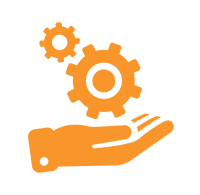
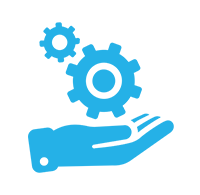
minor changes

Changed region(s): [[0.12, 0.0923, 0.87, 0.8923]]

diff --git a/index.html b/index.html
@@ -80,8 +80,8 @@
           <div class="container">
             <div class="col-md-offset-2 col-md-8">
               <div class="slider-captions text-center "><!-- slider-captions -->
-                <h1 class="slider-title">Full Service Electronics Experience</h1>
-                <p class="slider-text mb40">World-class repair centre, return & buyback management solutions</p>
+                <h1 class="slider-title">Helping Brands Successfully Manage Their repairs & return management </h1>
+                <p class="slider-text mb30">World-class Repair Centre, Return & Buyback Management Solutions</p>
                 <a href="#whatwedo" class="btn btn-default hidden-xs" >learn more</a>
 
               </div>
@@ -103,9 +103,9 @@
     </div>
     <div class="row">
       <div class="col-md-4 col-sm-4">
-        <div class="feature-block text-center mb20"><!--feature-box-->
-          <div class="feature-icon-1 mb20"><!-- feature-icon-->
-            <img src="./assets/images/service1.png" height="120px"></div>
+        <div class="feature-block text-center mb10"><!--feature-box-->
+          <div class="feature-icon-1 mb10"><!-- feature-icon-->
+            <img src="./assets/images/service1.png" height="86px"></div>
           <!-- /.feature-icon-->
           <h2>Returns Management and Reversed Logistics</h2>
           <p>Our Fulfilment Advisor can advise you on how to reduce the amount of returns your business has to deal with.</p>
@@ -114,9 +114,9 @@
         <!--/.feature-box-->
       </div>
       <div class="col-md-4 col-sm-4">
-        <div class="feature-block text-center mb20"><!--feature-box-->
-          <div class="feature-icon-1 mb20"><!-- feature-icon-->
-            <img src="./assets/images/service2.png" height="120px"></div>
+        <div class="feature-block text-center mb10"><!--feature-box-->
+          <div class="feature-icon-1 mb10"><!-- feature-icon-->
+            <img src="./assets/images/service2.png" height="86px"></div>
           <!-- /.feature-icon-->
           <h2>Repair Center Management Solutions</h2>
           <p>We operate an optimized work place that deals with all repair levels for all different electronics categories.</p>
@@ -125,9 +125,9 @@
         <!--/.feature-box-->
       </div>
       <div class="col-md-4 col-sm-4">
-        <div class="feature-block text-center mb20"><!--feature-box-->
-          <div class="feature-icon-1 mb20"><!-- feature-icon-->
-            <img src="./assets/images/service3.png" height="120px"></div>
+        <div class="feature-block text-center mb10"><!--feature-box-->
+          <div class="feature-icon-1 mb10"><!-- feature-icon-->
+            <img src="./assets/images/service3.png" height="86px"></div>
           <!-- /.feature-icon-->
           <h2>Buy-Back and Trade-In Management</h2>
           <p>We offer cash and/or vouchers at a challenging rates which leave our customers happy and empowered.</p>
@@ -149,29 +149,27 @@
   <div class="container">
     <div class="row">
       <div class="col-md-6">
-        <h1 class="mb20">Why HelpbitCare?</h1>
-        <p class="mb40">At HelpbitCare, we help our B2B clients to provide their direct customers with the best of class after sales services thus applying the WoW effect which is eventually aiming to the highest standards of the best customer experience in the region.
-        <p>This landmark initiative and our existence in GCC and Middle East, ensures that clients are served with a seamless process flow experience with the added benefits of Repair, Return Management, Extended warranty and damage protection programs, Liquidation Management and Inventory Management.
-        <p>We believe in employee engagement, therefore with the day to day operational flow, we embrace an augmentation methodologies for our staff who help us reach out to client’s satisfactory highest level.</p>
-      </div>
+        <h1 class="mb30">Why HelpbitCare?</h1>
+        <p class="lead mb20">At HelpbitCare, we help our B2B clients to provide their direct customers with the best of class after sales services thus applying the WoW effect which is eventually aiming to the highest standards of the best customer experience in the region.
+          </div>
       <div class="col-md-6">
-        <div class="feature-left feature-block pinside20 mb10 box-shadow"><!-- feature-block -->
-          <div class="feature-icon"> <i class="icon icon-size-xxx icon-color-default fontello-avatar-1"></i> </div>
+        <div class="feature-left feature-block pinside10 mb10 box-shadow"><!-- feature-block -->
+          <div class="feature-icon "> <i class="icon icon-size-xxx icon-color-default fontello-avatar-1 "></i> </div>
           <div class="feature-content">
             <h3>Customer Centered</h3>
             <p>Our #1 goal is to keep you satisfied. We will do everything to meet and exceed your expectations.</p>
           </div>
         </div>
         <!-- /.feature-block -->
-        <div class="feature-left feature-block pinside20 mb10 box-shadow"><!-- feature-block -->
+        <div class="feature-left feature-block pinside10 mb10 box-shadow"><!-- feature-block -->
           <div class="feature-icon"> <i class="icon icon-size-xxx icon-color-default fontello-like"></i> </div>
           <div class="feature-content">
             <h3>Quality Work, Every Time </h3>
-            <p>We repair damaged devices with state-of-the-art equipment and top quality spares, backed by a 3-months warranty.</p>
+            <p>We repair damaged devices with state-of-the-art equipment and top quality spares, backed by a 3-months warranty. We are ISO 9001 Certified.</p>
           </div>
         </div>
         <!-- /.feature-block -->
-        <div class="feature-left feature-block pinside20 mb10 box-shadow"><!-- feature-block -->
+        <div class="feature-left feature-block pinside10 mb10 box-shadow"><!-- feature-block -->
           <div class="feature-icon"> <i class="icon icon-size-xxx icon-color-default fontello-calculator"></i> </div>
           <div class="feature-content">
             <h3>Competitive Pricing</h3>
@@ -196,16 +194,16 @@
     </div>
     <div class="row">
       <div class="col-md-4 col-sm-6">
-        <div class="counter-block pinside50  text-center box-shadow mb20"><!-- counter-block -->
-          <div class="counter-icon mb20"> <i class="icon icon-size-xx fontello-big-map-locator"></i> </div>
+        <div class="counter-block pinside10  text-center box-shadow mb10"><!-- counter-block -->
+          <div class="counter-icon mb10"> <i class="icon icon-size-xx fontello-big-map-locator"></i> </div>
           <h1 class="counter-title"> UAE, KSA, Egypt</h1>
           <p class="small-text">Locations</p>
         </div>
         <!-- /.counter-block -->
       </div>
       <div class="col-md-4 col-sm-6">
-        <div class="counter-block pinside50  text-center box-shadow mb20"><!-- counter-block -->
-          <div class="counter-icon mb20"> <i class="icon icon-size-xx fontello-list"></i> </div>
+        <div class="counter-block pinside10  text-center box-shadow mb10"><!-- counter-block -->
+          <div class="counter-icon mb10"> <i class="icon icon-size-xx fontello-list"></i> </div>
           <h1 class="counter-title">41 000 units</h1>
           <p class="small-text">Annual Repair Capacity</p>
         </div>
@@ -213,8 +211,8 @@
       </div>
       <div class="col-md-4 col-sm-6">
 
-        <div class="counter-block pinside50  text-center box-shadow mb20"><!-- counter-block -->
-          <div class="counter-icon mb20"> <i class="icon icon-size-xx fontello-two-users"></i> </div>
+        <div class="counter-block pinside10  text-center box-shadow mb10"><!-- counter-block -->
+          <div class="counter-icon mb10"> <i class="icon icon-size-xx fontello-two-users"></i> </div>
           <h1 class="counter-title">85  employees</h1>
           <p class="small-text">Workforce</p>
         </div>
@@ -226,9 +224,9 @@
 </div>
 <!-- /.section-space80 -->
 
+<!--
 
-
-<div class="section-space80 bg-white"><!-- section-space80 Brand logo -->
+<div class="section-space80 bg-white">
   <div class="container">
     <div class="row">
       <div class="col-md-offset-2 col-md-8">
@@ -241,7 +239,7 @@
       <div class="testimonial-1">
         <div class="col-md-12">
           <div class="testimonial-block bg-light pinside40 mb30 box-shadow"> <i class="icon icon-size-xxx icon-primary icon-two-speech-bubbles"></i>
-            <div class="testimonial-content mb30">
+            <div class="testimonial-content mb20">
               <p>“Awesome service from Helpbit, Tried the phone repair service, it was punctual, efficient and high quality work. Well done ” </p>
             </div>
             <div class="testimonial-name">Kinda</div>
@@ -249,7 +247,7 @@
         </div>
         <div class="col-md-12">
           <div class="testimonial-block bg-light pinside40 mb30 box-shadow"> <i class="icon icon-size-xxx icon-primary icon-two-speech-bubbles"></i>
-            <div class="testimonial-content mb30">
+            <div class="testimonial-content mb20">
               <p>“A new on demand service is born Helpbit came on time fixed broken phone screen in less ten minutes!”</p>
             </div>
             <div class="testimonial-name">Omar Soudodi</div>
@@ -257,7 +255,7 @@
         </div>
         <div class="col-md-12">
           <div class="testimonial-block bg-light pinside40 mb30 box-shadow"> <i class="icon icon-size-xxx icon-primary icon-two-speech-bubbles"></i>
-            <div class="testimonial-content mb30">
+            <div class="testimonial-content mb20">
               <p>“Thanks for a great service; My iPhone was repaired to a high standard and a great price.”</p>
             </div>
             <div class="testimonial-name">Qamar Sayed</div>
@@ -267,31 +265,32 @@
     </div>
   </div>
 </div>
-
-<div class="section-space80 bg-light"><!-- section-space80 Brand logo -->
+-->
+<div class="section-space80 bg-white"><!-- section-space80 Brand logo -->
   <div class="container">
     <div class="row">
       <div class="col-md-offset-2 col-md-8">
         <div class="text-center mb60 section-title">
-          <h1>Meet our trusted partners</h1>
+          <h1>Meet our clients</h1>
           <p>Our clients have trusted our team, and technologies. Let them speak for themselves.</p>
         </div>
       </div>
     </div>
     <div class="">
       <div class="col-md-3  col-sm-6 bg-white brand-logo text-center"><img src="./assets/images/souq.png" alt="" class="" height="160px"></div>
-      <div class="col-md-3  col-sm-6 bg-white brand-logo text-center"><img src="./assets/images/wadi.png" alt="" class="" height="160px"></div>
-      <div class="col-md-3  col-sm-6 bg-white brand-logo text-center"><img src="./assets/images/innjoo.png" alt="" class="" height="160px"></div>
       <div class="col-md-3  col-sm-6 bg-white brand-logo text-center"><img src="./assets/images/oneplus.png" alt="" class="" height="160px"></div>
+      <div class="col-md-3  col-sm-6 bg-white brand-logo text-center"><img src="./assets/images/ilife.png" alt="" class="" height="160px"></div>
+      <div class="col-md-3  col-sm-6 bg-white brand-logo text-center"><img src="./assets/images/allianz.png" alt="" class="" height="160px"></div>
+
     </div>
   </div>
 </div>
 <!-- /.section-space80 brand-logo-->
 
 <!-- RD Google Map-->
-<div class="bg-light"><!-- section-space80 -->
+<div class="bg-white"><!-- section-space80 -->
   <div class="text-center mb60 section-title ">
-    <h1 class="mb20">We are in the heart of Dubai</h1>
+    <h1 class="mb10">We are in the heart of Dubai</h1>
   </div>
   <div class="map" id="googleMap"></div>
 </div>
@@ -301,14 +300,14 @@
   <div class="container">
     <div class="row">
       <div class="col-md-4 col-sm-6">
-        <div class="footer-widget mb20"><!-- footer-widget -->
-          <h3 class="footer-title mb30">About HelpbitCare </h3>
+        <div class="footer-widget mb0"><!-- footer-widget -->
+          <h3 class="footer-title mb10">About HelpbitCare </h3>
           <p>HelpbitCare is an innovative leader in electronics repairs, services, and inventory liquidation management. We bring together extensive experience from a variety of backgrounds to bring a full service approach to the consumer electronics experience. From retail and trade-in programs to repairs and sales, we can offer a customized experience on any level.</p>
         </div>
         <!-- /.footer-widget -->
       </div>
       <div class="col-md-2 col-sm-3">
-        <div class="footer-widget mb20"><!-- footer-widget -->
+        <div class="footer-widget mb10"><!-- footer-widget -->
           <h3 class="footer-title mb30">Contact Us</h3>
           <ul class="listnone">
             <li>
@@ -332,7 +331,7 @@
         <!-- /.footer-widget -->
       </div>
       <div class="col-md-2 col-sm-3">
-        <div class="footer-widget mb20"><!-- footer-widget -->
+        <div class="footer-widget mb10"><!-- footer-widget -->
           <h3 class="footer-title mb30">Services</h3>
           <ul class="listnone bullet bullet-arrow-right">
             <li><a href="https://www.helpbit.com/catalog/mobile-repair">Mobile Repair</a></li>
@@ -345,7 +344,7 @@
         <!-- /.footer-widget -->
       </div>
       <div class="col-md-4 col-sm-12">
-        <div class="footer-widget mb20"><!-- footer-widget -->
+        <div class="footer-widget mb10"><!-- footer-widget -->
           <div class="newsletter-widget">
             <h3 class="footer-title mb30">Download App</h3>
             <p>The Easiest & Fastest way to have your device repaired today.</p>

diff --git a/assets/css/style.css b/assets/css/style.css
@@ -4,16 +4,16 @@
 General css class
 -----------------------------------*/
 body{font-size: 15px; -webkit-font-smoothing: antialiased; font-family: 'Ubuntu', sans-serif;
- line-height: 1.4; color:#7d7d7d; background-color: #f6f6f6;}
+ line-height: 1.1; color:#7d7d7d; background-color: #f6f6f6;}
 h1,h2,h3,h4,h5,h6{margin:0px 0px 20px 0px; color: #353938; font-family: 'Ubuntu', sans-serif;}
-h1 {font-size: 32px; line-height: 42px;}
+h1 {font-size: 28px; line-height: 42px;}
 h2 {font-size: 24px;}
 h3 {font-size: 22px;line-height: 32px;}
 h4 {font-size: 18px;}
 p {margin: 0 0 20px;line-height: 1.6;}
 ul, ol {}
 ul li, ol li {}
-a {color: #f9962b; text-decoration: none; -webkit-transition: all 0.3s; -moz-transition: all 0.3s;
+a {color: #25aae1; text-decoration: none; -webkit-transition: all 0.3s; -moz-transition: all 0.3s;
  transition: all 0.3s;}
 a:focus, a:hover {text-decoration: none; color: #25aae1;}
 strong{ font-weight: 600; color:#353938;}
@@ -118,7 +118,7 @@ Padding space
 .section-space20{padding-top: 20px;padding-bottom: 20px;}
 .section-space40{padding-top: 40px;padding-bottom: 40px;}
 .section-space60{padding-top: 60px;padding-bottom: 60px;}
-.section-space80{padding-top: 80px;padding-bottom: 80px;}
+.section-space80{padding-top: 40px;padding-bottom: 60px;}
 .section-space100{padding-top: 100px;padding-bottom: 100px;}
 .section-space120{padding-top: 100px;padding-bottom: 120px;}
 .section-space-top80{padding-top: 80px;}
@@ -440,8 +440,8 @@ padding: 10px 15px; margin-bottom: 5px; background-color: #21c58d; border: 0px s
 	}
 	
 .slider-captions {position: absolute;  top: 100px; padding: 30px;}
-.slider-title{color: #fff;font-size: 42px; font-weight: 500; text-transform: capitalize; line-height: 42px;}
-.slider-text{color: #fff; font-size: 16px;} 
+.slider-title{color: #fff;font-size: 34px; font-weight: 500; text-transform: capitalize; line-height: 42px;}
+.slider-text{color: #fff; font-size: 18px;}
 .slider .item img{width:100%;}  
 
 
@@ -474,7 +474,7 @@ right: 10px; overflow: hidden; text-indent: 100%; white-space: nowrap; visibilit
 .counter-block{background-color: #fafafa;  }
 .counter-block:hover{background-color: #fff;    transition: all 0.2s ease-in-out 0s;}
 .counter-icon{color: #bfc3c2;}
-.counter-title{font-size: 34px;}
+.counter-title{font-size: 26px;}
 
 /*-----Testimonial-----*/
 
@@ -508,8 +508,10 @@ transition: all 0.2s ease-in-out 0s;
 .brand-logo:hover{   -webkit-box-shadow: 0px 3px 3px 3px rgba(234,234,234,1);
 -moz-box-shadow: 0px 3px 3px 3px rgba(234,234,234,1); box-shadow: 0px 3px 3px 3px rgba(234,234,234,1); transition: all 0.2s ease-in-out 0s;
      position: relative; z-index: 9;}
+/*
 .brand-logo img { filter: grayscale(100%); -webkit-filter: grayscale(100%); filter: gray; 
   -webkit-transition: all .6s ease; }
+  */
 .brand-logo img:hover {    filter: grayscale(0%); -webkit-filter: grayscale(0%); filter: none; }
 .image-overlay { display: none !important; }
 
@@ -820,7 +822,7 @@ letter-spacing: -8px; text-transform: uppercase;}
 @media screen and (max-width: 1366;) {
 
 .slider-captions {position: absolute;  width: 85%; bottom: 100px; padding: 30px;}
-.slider-text{font-size: 12px; display: none;} 
+.slider-text{font-size: 18px; display: none;}
 } 
 
 @media (max-width: 320px) {}
@@ -835,7 +837,7 @@ letter-spacing: -8px; text-transform: uppercase;}
 .page-title{font-size: 22px; }
 
 .slider-captions {position: absolute; width: 65%; bottom: 10px; padding: 5px;}
-.slider-title{font-size: 12px; font-weight: 500; line-height: 15px; margin-bottom: 10px;}
+.slider-title{font-size: 9px; font-weight: 300; line-height: 15px; margin-bottom: 10px;}
 .slider .owl-pagination{bottom: 25px;}
 .childern{padding-left: 0px;}
 .discount {font-size: 50px;}
@@ -845,8 +847,8 @@ letter-spacing: -8px; text-transform: uppercase;}
 @media (min-width: 768px) and (max-width: 1024px) { 
 #navigation > ul > li > a{padding: 15px;}
 .slider-captions{bottom: 60px;}
-.slider-text{font-size: 14px;}
-.slider-title {color: #fff; font-size: 18px; font-weight: 600; text-transform: uppercase; line-height: 19px;
+.slider-text{font-size: 18px;}
+.slider-title {color: #fff; font-size: 12px; font-weight: 600; text-transform: uppercase; line-height: 19px;
   margin-bottom: 10px;}
 }
 
